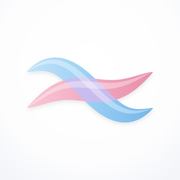
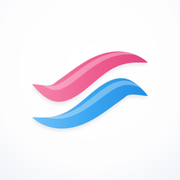
아이콘을 나란히 흐르는 진한 물결로, 편지 사진을 제자리로
- 아이콘: 분홍·하늘 물결이 엇갈리지 않고 틈을 두고 나란히 흐른다(분홍이 조금 앞섬). 채도를 높이고 가운데 자동 정렬. 알림 배지도 같은 모양
- 서비스 워커 VERSION 올림 (알림 아이콘 캐시 갱신)
- 편지 사진: 올려주신 public/choi-hyunseok.png(2.2MB)를 WebP(136KB)로 바꿔 public/letter/choi-hyunseok.webp로 옮김

Claude-Session: https://claude.ai/code/session_01Ee3keqYKt2DrwdEeWnmzt2

Changed region(s): [[0.1389, 0.2778, 0.8611, 0.7222]]

diff --git a/public/sw.js b/public/sw.js
@@ -4,7 +4,7 @@
 // 로그인한 화면이나 데이터는 기기에 캐시하지 않는다(사진·대화가 기기에 남지 않게).
 // 이 파일을 바꾸면 VERSION을 올린다.
 
-const VERSION = "2026-10-19";
+const VERSION = "2026-10-19.2";
 const CACHE = `hangyeol-${VERSION}`;
 const OFFLINE_URL = "/offline.html";
 const ICON = "/icons/icon-192.png";

diff --git a/CLAUDE.md b/CLAUDE.md
@@ -38,7 +38,7 @@
 - 사진 AI 피드백: `src/lib/photo/feedback.ts` (OpenAI Chat Completions + JSON schema). 내부 점수는 추천에 쓰지 않는다
 - 인증: `/signup`(이메일 코드 → 비밀번호), `/login`(비밀번호), `/reset`(코드 → 새 비밀번호), `/set-password`. `user_metadata.password_set`이 없으면 `/start`가 비밀번호 만들기로 보낸다
 - 가상 매칭 둘러보기 `/tour`: 첫 소개까지 길게 느껴지는 걸 덜려고 가입 직후부터(로그인 없이도) 체험. 가상 인물 2명은 `src/lib/tour/personas.ts`(남성에게 여성 '윤슬', 여성에게 남성 '도담'), 사진은 `public/tour/`. 화면 안에서만 진행하고 서버 액션·DB 쓰기 없음. 성별을 모르면(가입 직후·로그인 전) 화면에서 고르고 저장하지 않는다. 끝에 진짜 소개까지 남은 단계(`setupSteps`와 같은 목록)와 다음 단계 버튼. 들어오는 곳은 `TourInvite`(/onboarding, /test, /match 준비 중)와 첫 화면 링크
-- PWA: `src/app/manifest.ts`(start_url `/start`), 아이콘 `public/icons/`·`src/app/icon.png`·`apple-icon.png`(하얀 바탕에 분홍·하늘 물결이 엇갈리며 만나고 겹친 곳은 라벤더, 알림 배지는 하얀 실루엣. `node scripts/make-icons.mjs`로 한꺼번에 만든다. 바꾸면 sw.js VERSION 올림), 서비스 워커 `public/sw.js`(알림 표시·누르면 열기, 화면 이동이 실패하면 `offline.html`. 로그인 화면·데이터는 캐시하지 않는다. 바꾸면 VERSION 올림), 등록은 `PwaRegister`(루트 레이아웃, 운영에서만). 설치 안내·알림 켜기는 내 정보 `#app`(`AppSettings`)과 추천 화면 위 `PushNudge`
+- PWA: `src/app/manifest.ts`(start_url `/start`), 아이콘 `public/icons/`·`src/app/icon.png`·`apple-icon.png`(하얀 바탕에 진한 분홍·하늘 물결이 틈을 두고 나란히 흐르는 모양, 분홍이 조금 앞선다. 알림 배지는 하얀 실루엣. `node scripts/make-icons.mjs`로 한꺼번에 만든다. 바꾸면 sw.js VERSION 올림), 서비스 워커 `public/sw.js`(알림 표시·누르면 열기, 화면 이동이 실패하면 `offline.html`. 로그인 화면·데이터는 캐시하지 않는다. 바꾸면 VERSION 올림), 등록은 `PwaRegister`(루트 레이아웃, 운영에서만). 설치 안내·알림 켜기는 내 정보 `#app`(`AppSettings`)과 추천 화면 위 `PushNudge`
 - 알림(웹 푸시, 0007 `push_subscriptions`): `src/lib/push/rules.ts`(순수: 구독 검사, 문구, 대화 알림 판단), `server.ts`(web-push로 보내기, 404·410 구독 정리), `client.ts`(브라우저). 구독 저장은 `src/app/me/push-actions.ts`, 푸시 서버 주소는 FCM·Apple·Mozilla·WNS만 받는다(SSRF 방지). 보내는 때: 매일 저녁 새 추천(크론), 서로 관심, 서로 수락, 새 메시지(상대가 1분 안에 읽고 있었거나 안 읽은 내 메시지가 있으면 건너뜀), 연락처 전달 요청(쌍마다 하루 3번)·교환. 모두 `after()`로 응답 뒤에. 문구에는 상대 닉네임만(대화 내용·사진·연락처 없음). 로그아웃하면 그 기기 구독을 푼다. 키: `NEXT_PUBLIC_VAPID_PUBLIC_KEY`, `VAPID_PRIVATE_KEY`(없으면 알림만 꺼짐)
 - 매일 크론: `/api/cron/daily` (`CRON_SECRET`, 11:00 UTC = 한국 저녁 8시, Hobby는 1시간 안에 실행). 추천의 하루는 `matchDay()`(`src/lib/day.ts`, 저녁 8시에 다음 날 이름으로 넘어감). 하루 상한·통계는 `kstDay()`(자정) 그대로. 크론이 새 추천을 받은 사람에게 '오늘의 추천이 도착했어요' 알림(`sendPushMany`). 크론보다 먼저 들어온 사람은 `loadMatch`가 그 자리에서 만들고 알림은 보내지 않는다
 - 관리자: `/admin`(대시보드), `/admin/users`(목록), `/admin/users/[id]`(상세·리포트), `/admin/export`(엑셀, exceljs). 판별은 `src/lib/admin/auth.ts`(`ADMIN_EMAILS`, 기본 testwelltest01@gmail.com, `password_set` 필수), 관리자가 아니면 `notFound()`. `/start`는 관리자를 `/admin`으로 보낸다. 관리자 화면 틀은 Suspense 안 Gate에서 확인 뒤에 그린다(정적 껍데기에 메뉴를 넣지 않는다). 틀·조각은 `src/app/admin/ui.tsx`(server-only): `AdminShell current back`(넓은 화면 왼쪽 메뉴 + 엑셀 받기·서비스 보기, 좁은 화면 위쪽 바 + 아래쪽 탭 5개, 대시보드 메뉴에 처리 안 한 신고 수), `AdminTitle`, `GroupTitle`, `Panel`, `Stat`(alert=바로 손볼 숫자), `TableWrap`(표만 가로로 밀림), `JumpLinks`(긴 화면 바로가기). 대시보드는 처리할 일(신고·정지) → 회원 → 매칭 순서, 회원 상세는 머리 카드(정지 버튼) + 바로가기. 계산은 `stats.ts`(순수), 데이터는 `data.ts`, 엑셀은 `workbook.ts`(순수)·`export.ts`
